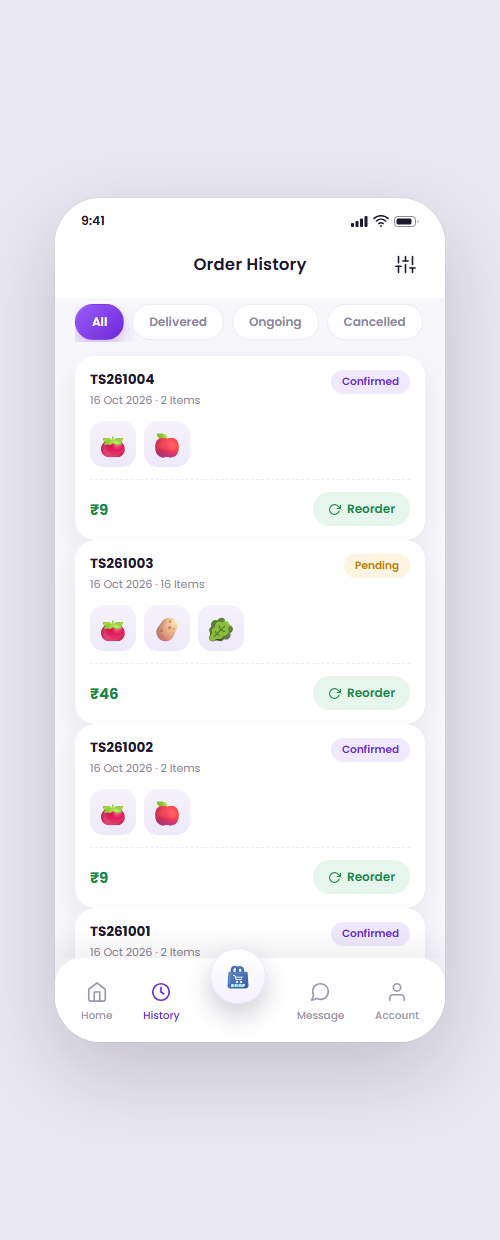
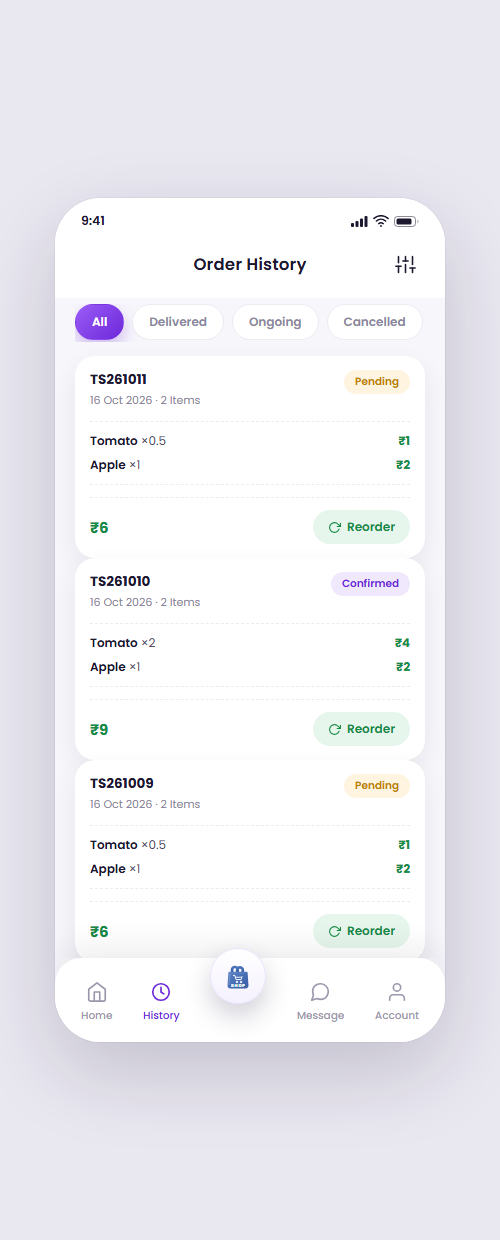
Order history: item lines (name x qty - amount) instead of emoji thumbnails
- live + demo cards now list each item as 'Name xQty' with its rupee value
- caps at 6 lines with '+N Items' overflow row for big orders
- supports 0.5 kg quantities (Tomato x0.5 - Rs.1) and half amounts
- removed .order-thumbs/.o-thumb styles; added .order-items/.oi-line

diff --git a/templates/history.html b/templates/history.html
@@ -69,8 +69,9 @@
             </div>
             <span class="status conf" data-i18n="status_confirmed">Confirmed</span>
           </div>
-          <div class="order-thumbs" aria-hidden="true">
-            <span class="o-thumb">🥬</span><span class="o-thumb">🍎</span>
+          <div class="order-items">
+            <div class="oi-line"><span class="oi-name"><span data-i18n="veg_spinach">Spinach</span> ×1</span><span class="oi-amt">₹3</span></div>
+            <div class="oi-line"><span class="oi-name"><span data-i18n="fruit_apple">Apple</span> ×1</span><span class="oi-amt">₹2</span></div>
           </div>
           <div class="order-foot">
             <p class="o-total">₹8</p>
@@ -92,8 +93,10 @@
             </div>
             <span class="status ok" data-i18n="status_delivered">Delivered</span>
           </div>
-          <div class="order-thumbs" aria-hidden="true">
-            <span class="o-thumb">🥔</span><span class="o-thumb">🥬</span><span class="o-thumb">🥗</span>
+          <div class="order-items">
+            <div class="oi-line"><span class="oi-name"><span data-i18n="veg_potato">Potato</span> ×1</span><span class="oi-amt">₹1</span></div>
+            <div class="oi-line"><span class="oi-name"><span data-i18n="veg_spinach">Spinach</span> ×1</span><span class="oi-amt">₹3</span></div>
+            <div class="oi-line"><span class="oi-name"><span data-i18n="veg_lettuce">Lettuce</span> ×1</span><span class="oi-amt">₹2</span></div>
           </div>
           <div class="order-foot">
             <p class="o-total">₹9</p>
@@ -115,8 +118,9 @@
             </div>
             <span class="status ok" data-i18n="status_delivered">Delivered</span>
           </div>
-          <div class="order-thumbs" aria-hidden="true">
-            <span class="o-thumb">🍎</span><span class="o-thumb">🥕</span>
+          <div class="order-items">
+            <div class="oi-line"><span class="oi-name"><span data-i18n="fruit_apple">Apple</span> ×1</span><span class="oi-amt">₹2</span></div>
+            <div class="oi-line"><span class="oi-name"><span data-i18n="veg_carrot">Carrot</span> ×1</span><span class="oi-amt">₹2</span></div>
           </div>
           <div class="order-foot">
             <p class="o-total">₹7</p>
@@ -138,8 +142,9 @@
             </div>
             <span class="status cancel" data-i18n="status_rejected">Rejected</span>
           </div>
-          <div class="order-thumbs" aria-hidden="true">
-            <span class="o-thumb">🍇</span><span class="o-thumb">🥝</span>
+          <div class="order-items">
+            <div class="oi-line"><span class="oi-name"><span data-i18n="fruit_grapes">Grapes</span> ×1</span><span class="oi-amt">₹3</span></div>
+            <div class="oi-line"><span class="oi-name"><span data-i18n="fruit_kiwi">Kiwi</span> ×2</span><span class="oi-amt">₹2</span></div>
           </div>
           <div class="order-foot">
             <p class="o-total">₹8</p>

diff --git a/templates/app.js b/templates/app.js
@@ -963,9 +963,21 @@
 
     function orderCard(o) {
       var st = STATUS_VIEW[o.status] || STATUS_VIEW.pending;
-      var thumbs = (o.items || []).slice(0, 3).map(function (it) {
-        return '<span class="o-thumb">' + (it.emoji || '🧺') + '</span>';
+      var items = o.items || [];
+      var MAX = 6;
+
+      var lines = items.slice(0, MAX).map(function (it) {
+        var key = nameKeyFor(it.name);
+        var nameHtml = key
+          ? '<span data-i18n="' + key + '">' + esc(it.name) + '</span>'
+          : '<span>' + esc(it.name) + '</span>';
+        return '<div class="oi-line"><span class="oi-name">' + nameHtml + ' ×' + fmtQty(it.qty) + '</span>' +
+          '<span class="oi-amt">' + money(Number(it.rate) * Number(it.qty)) + '</span></div>';
       }).join('');
+      if (items.length > MAX) {
+        lines += '<div class="oi-line oi-more"><span class="oi-name">+' + (items.length - MAX) + ' ' + t('items_word') + '</span></div>';
+      }
+
       return '<article class="order-card" data-id="' + o.id + '">' +
         '<div class="order-head">' +
         '<div>' +
@@ -974,9 +986,9 @@
         '</div>' +
         '<span class="status ' + st.cls + '" data-i18n="' + st.key + '">' + t(st.key) + '</span>' +
         '</div>' +
-        '<div class="order-thumbs" aria-hidden="true">' + thumbs + '</div>' +
+        '<div class="order-items">' + lines + '</div>' +
         '<div class="order-foot">' +
-        '<p class="o-total">₹' + o.amount + '</p>' +
+        '<p class="o-total">₹' + fmtQty(o.amount) + '</p>' +
         '<button class="reorder" data-reorder="' + o.id + '">' + REORDER_SVG + '<span data-i18n="reorder">' + t('reorder') + '</span></button>' +
         '</div>' +
         '</article>';

diff --git a/templates/styles.css b/templates/styles.css
@@ -724,18 +724,26 @@ input[type='search']::-webkit-search-cancel-button { display: none; }
 .status.way { background: #fff4e0; color: #c07c00; }
 .status.cancel { background: #fdeaea; color: #d64545; }
 
-.order-thumbs { display: flex; align-items: center; gap: 8px; margin: 12px 0; }
-
-.o-thumb {
-  width: 46px;
-  height: 46px;
-  border-radius: 14px;
-  background: linear-gradient(180deg, #f5f2fc, #eee9f9);
-  display: grid;
-  place-items: center;
-  font-size: 24px;
-  font-family: var(--emoji-font);
+.order-items {
+  display: flex;
+  flex-direction: column;
+  gap: 6px;
+  margin: 12px 0;
+  padding: 10px 0;
+  border-top: 1px dashed var(--line);
+  border-bottom: 1px dashed var(--line);
 }
+.oi-line {
+  display: flex;
+  align-items: baseline;
+  justify-content: space-between;
+  gap: 10px;
+  font-size: 12px;
+}
+.oi-name { color: #4d4a5e; }
+.oi-name span { font-weight: 600; color: var(--ink); }
+.oi-amt { font-weight: 700; color: var(--green-strong); white-space: nowrap; }
+.oi-more .oi-name { color: var(--muted); }
 
 .order-foot {
   display: flex;
